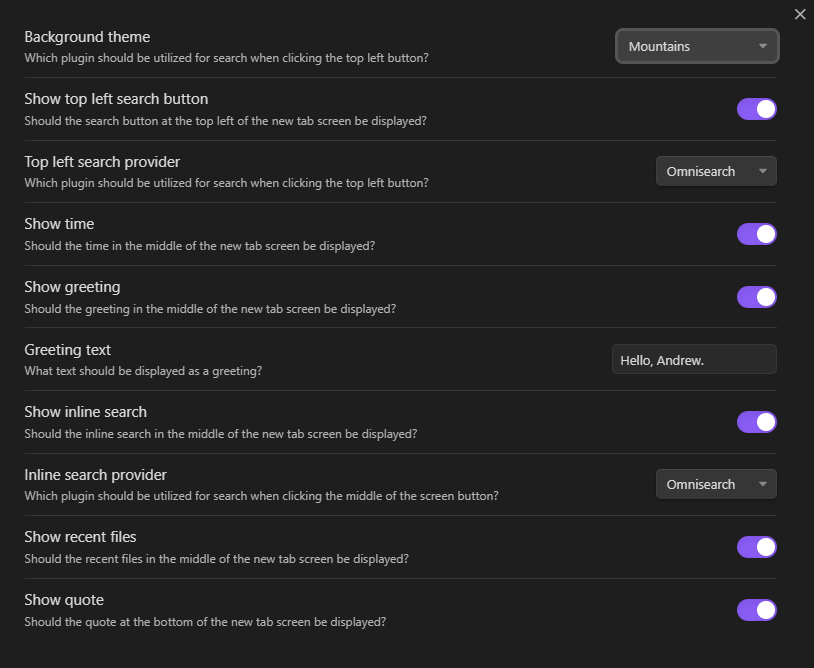
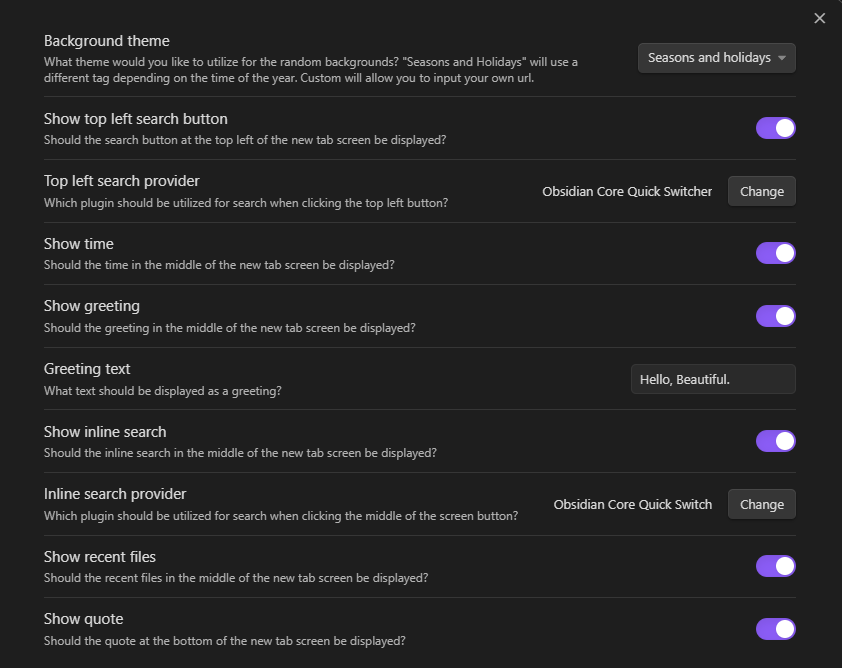
Fix bug where built in plugins were not working as a search option

diff --git a/main.ts b/main.ts
@@ -1,8 +1,14 @@
-import { App, FuzzySuggestModal, Notice, Plugin, PluginSettingTab, Setting } from "obsidian";
+import {
+	App,
+	FuzzySuggestModal,
+	Notice,
+	Plugin,
+	PluginSettingTab,
+	Setting,
+} from "obsidian";
 import { ReactView, BEAUTITAB_REACT_VIEW } from "./Views/ReactView";
 import Observable from "Utils/Observable";
 import capitalizeFirstLetter from "Utils/capitalizeFirstLetter";
-
 
 export enum BackgroundTheme {
 	SEASONS_AND_HOLIDAYS = "seasons and holidays",
@@ -56,11 +62,11 @@ const DEFAULT_SETTINGS: BeautitabPluginSettings = {
 };
 
 const SEARCH_PROVIDER = [
-		"switcher",
-		"omnisearch",
-		"darlal-switcher-plus",
-		"obsidian-another-quick-switcher",
-	]
+	"switcher",
+	"omnisearch",
+	"darlal-switcher-plus",
+	"obsidian-another-quick-switcher",
+];
 
 /**
  * This allows a "live-reload" of Obsidian when developing the plugin.
@@ -73,7 +79,6 @@ if (process.env.NODE_ENV === "development") {
 	);
 }
 
-
 export default class BeautitabPlugin extends Plugin {
 	settings: BeautitabPluginSettings;
 	settingsObservable: Observable;
@@ -85,7 +90,8 @@ export default class BeautitabPlugin extends Plugin {
 
 		this.registerView(
 			BEAUTITAB_REACT_VIEW,
-			(leaf) => new ReactView(this.app, this.settingsObservable, leaf, this)
+			(leaf) =>
+				new ReactView(this.app, this.settingsObservable, leaf, this)
 		);
 
 		this.addSettingTab(new BeautitabPluginSettingTab(this.app, this));
@@ -132,15 +138,22 @@ export default class BeautitabPlugin extends Plugin {
 	 * If yes: open it by using executeCommandById
 	 * If no: Notice the user and tell them to enable it in the settings
 	 */
-	openSwitcherCommand(command: string):void {
+	openSwitcherCommand(command: string): void {
 		const pluginID = command.split(":")[0];
 		//@ts-ignore
 		const enabledPlugins = this.app.plugins.enabledPlugins as Set<string>;
-		if (enabledPlugins.has(pluginID)) {
+		//@ts-ignore
+		const internalPlugins = this.app.internalPlugins.plugins;
+		if (
+			enabledPlugins.has(pluginID) ||
+			internalPlugins[pluginID]?.enabled
+		) {
 			//@ts-ignore
 			this.app.commands.executeCommandById(command);
 		} else {
-			new Notice(`Plugin ${pluginID} is not enabled. Please enable it in the settings.`);
+			new Notice(
+				`Plugin ${pluginID} is not enabled. Please enable it in the settings.`
+			);
 		}
 	}
 }
@@ -317,10 +330,10 @@ class BeautitabPluginSettingTab extends PluginSettingTab {
 			.addText((component) => {
 				component
 					.setValue(this.plugin.settings.inlineSearchProvider.display)
-					.setDisabled(true)
+					.setDisabled(true);
 			})
 			.addButton((component) => {
-				component.setButtonText("Change")
+				component.setButtonText("Change");
 				component.setTooltip("Choose search provider");
 				component.onClick(() => {
 					new ChooseSearchProvider(
@@ -389,12 +402,13 @@ class ChooseSearchProvider extends FuzzySuggestModal<SearchProvider> {
 		super(app);
 		this.settings = settings;
 		this.onSubmit = onSubmit;
-
 	}
 
 	getItems(): SearchProvider[] {
 		//@ts-ignore
-		const allCommands = Object.entries(this.app.commands.commands).filter(pluginId => SEARCH_PROVIDER.includes(pluginId[0].split(":")[0]));
+		const allCommands = Object.entries(this.app.commands.commands).filter(
+			(pluginId) => SEARCH_PROVIDER.includes(pluginId[0].split(":")[0])
+		);
 		const searchProviders: SearchProvider[] = [];
 		allCommands.forEach((command) => {
 			searchProviders.push({
@@ -414,5 +428,4 @@ class ChooseSearchProvider extends FuzzySuggestModal<SearchProvider> {
 		this.onSubmit(item);
 		this.close();
 	}
-
 }
